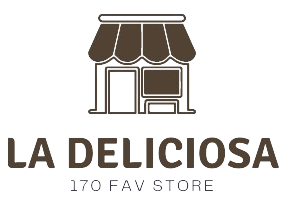
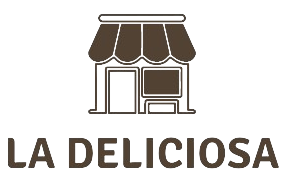
cambios

Changed region(s): [[0.218, 0.431, 0.9654, 0.977], [0.2803, 0.0575, 0.6851, 0.431], [0.0, 0.6322, 0.1869, 0.977]]

diff --git a/css/nav.css b/css/nav.css
@@ -22,7 +22,7 @@
     width: 20%;
     justify-content: space-evenly;
     align-items: flex-end;
-margin-left: 25%;
+margin-left: 15%;
 }
 
 .user :hover{
@@ -46,5 +46,5 @@ padding: 0%;
     color: rgb(255, 255, 255);
 }
 .tamañologo{
-    width: 50%;
+    width: 60%;
 }
